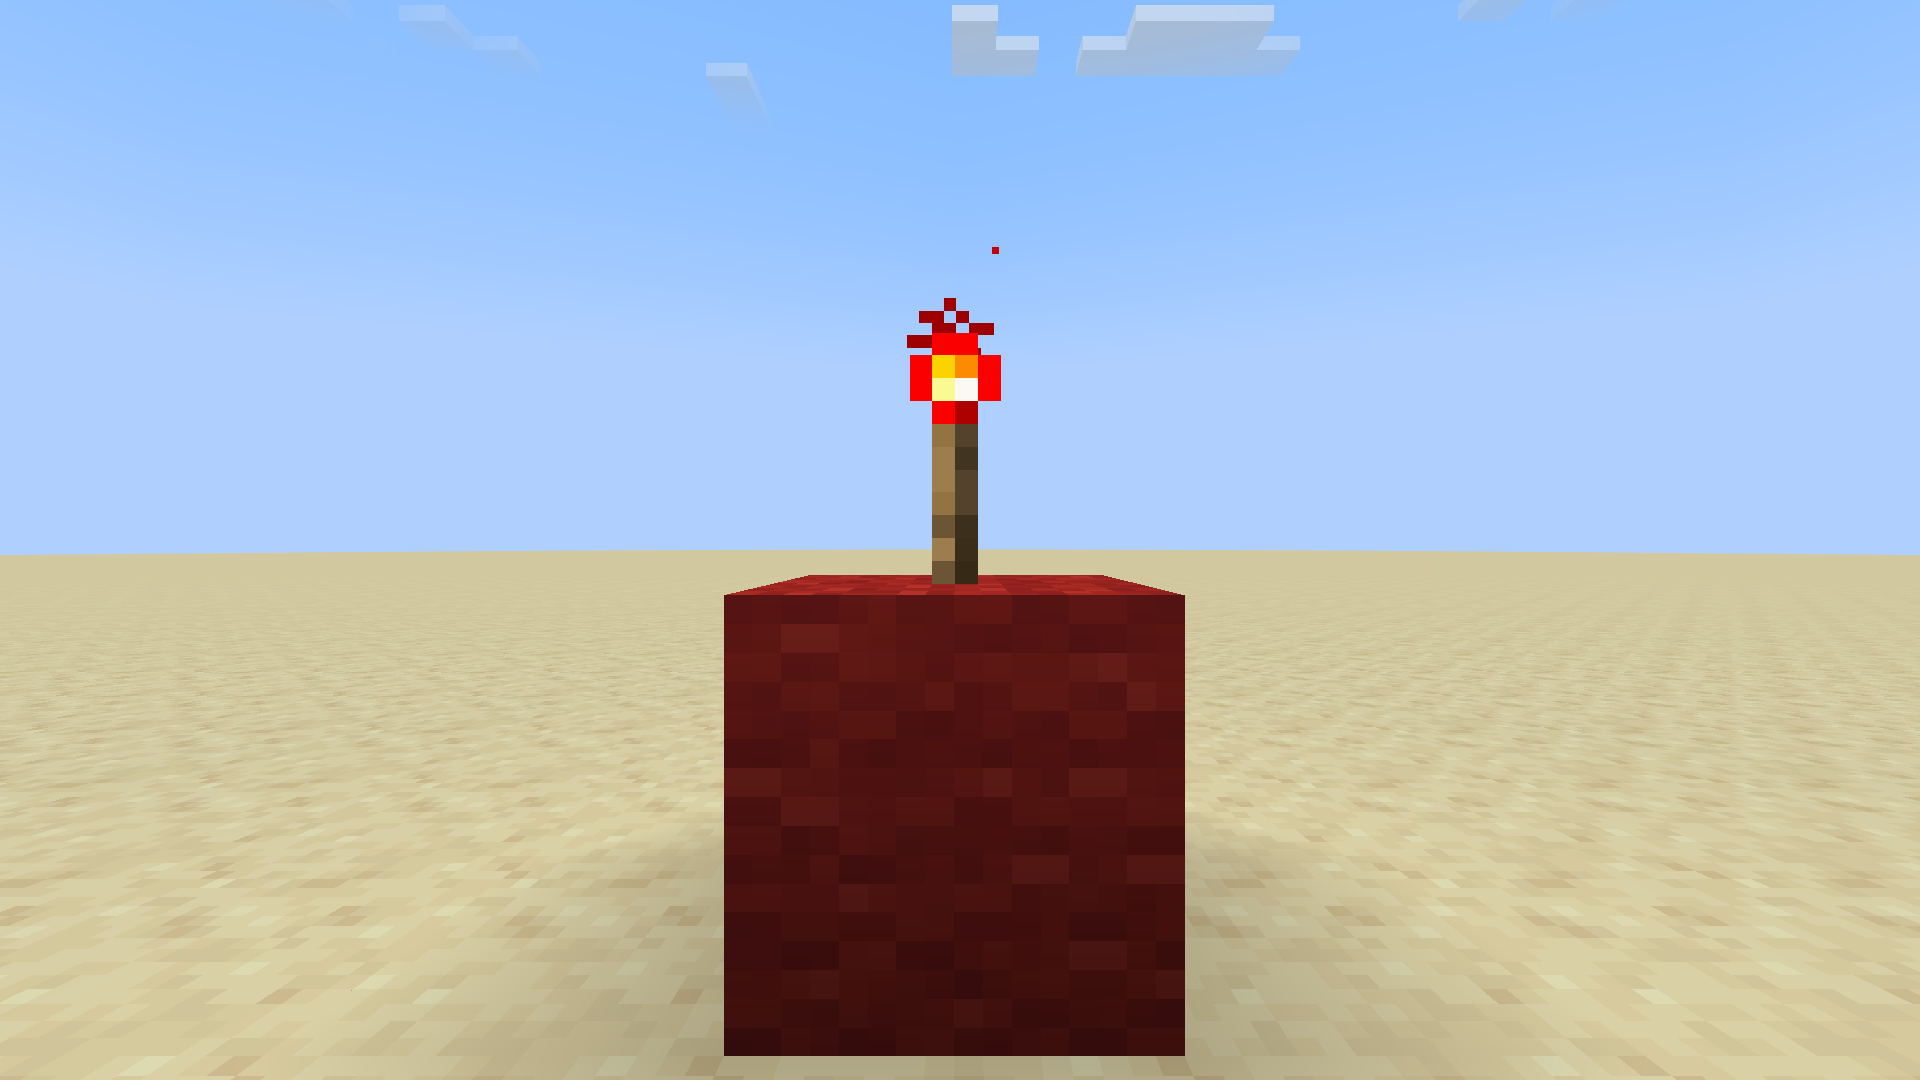
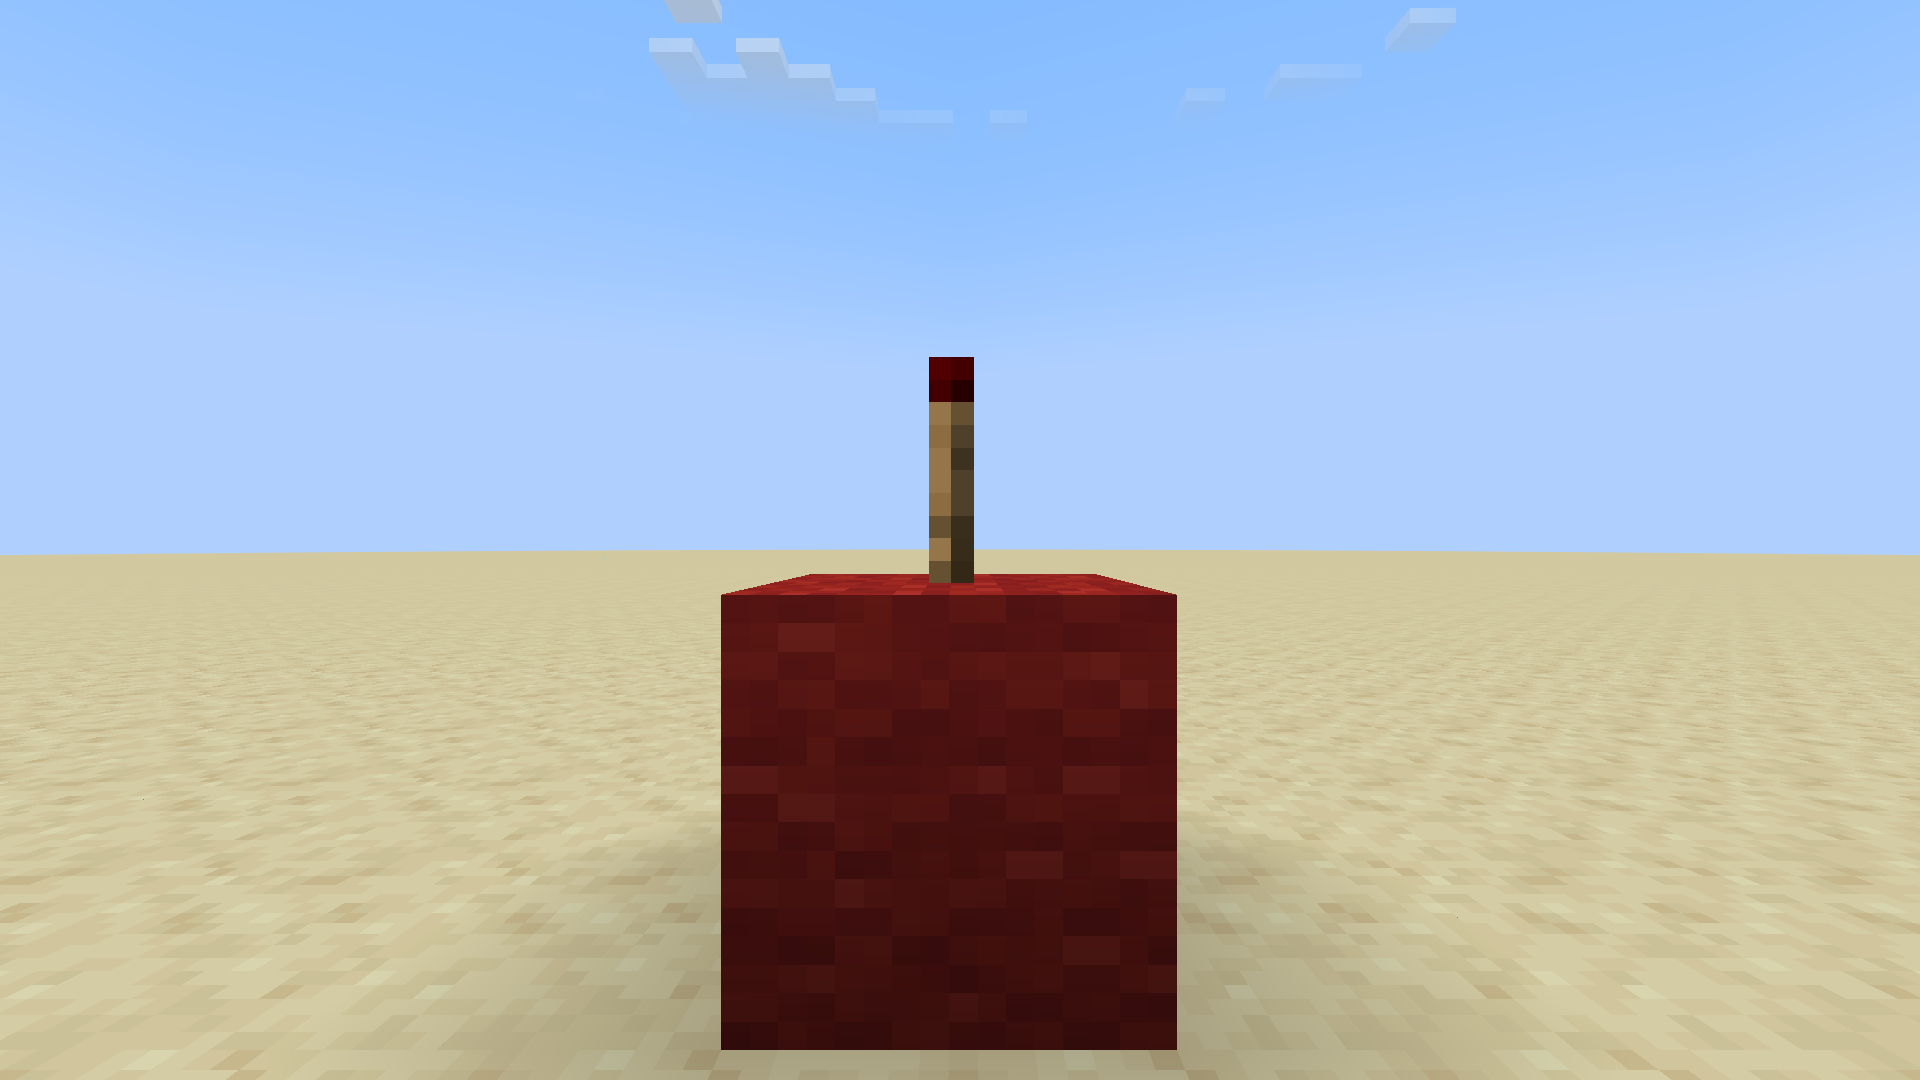
1.0.3 "Image Corrections"

diff --git a/assets/data.ts b/assets/data.ts
@@ -98,7 +98,7 @@ const Components: components = {
             ],
             "Gallery": [
                 { text: "Image of redstone dust on blocks", img: require(gallery + 'r1.png') },
-                { text: "Image of redstone dust powering a redstone torch", img: require(gallery + 'r1.png') },
+                { text: "Image of redstone dust powering a redstone torch", img: require(gallery + 'r2.png') },
             ]
         },
 
